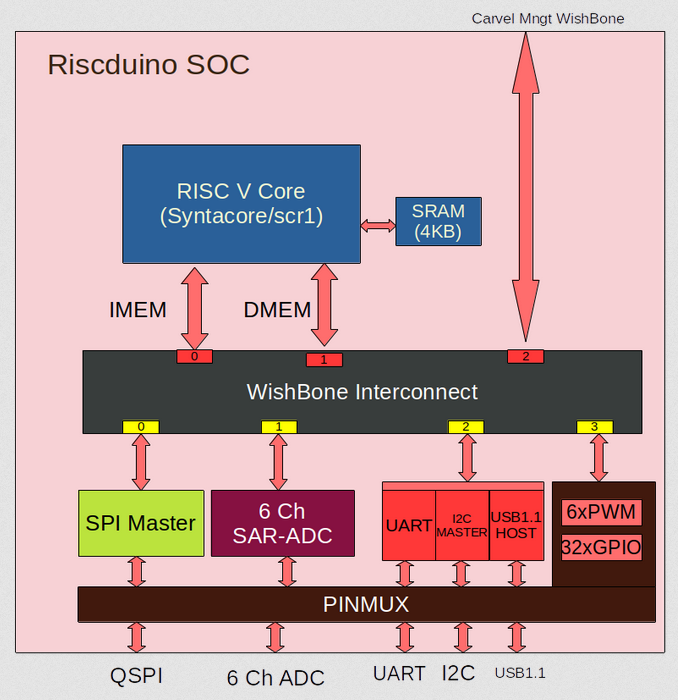
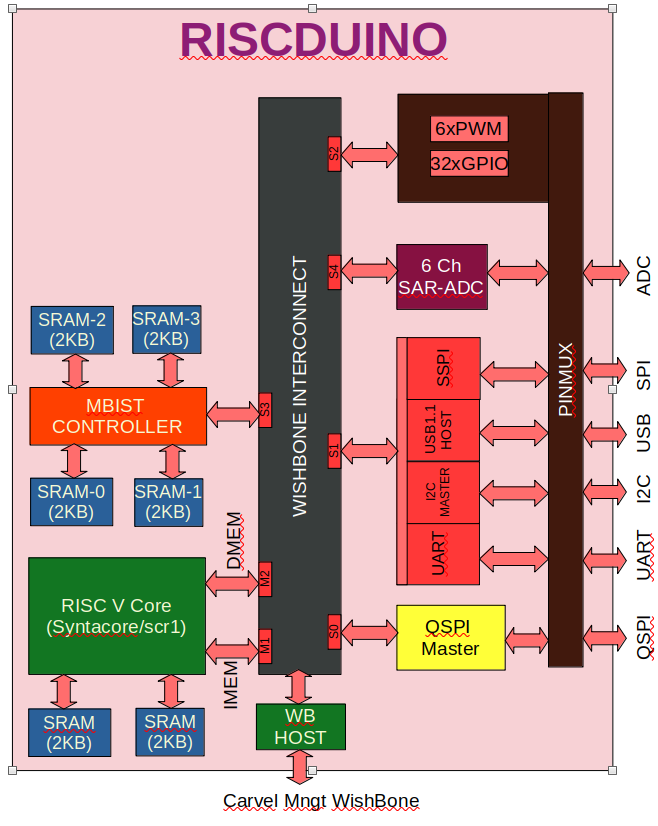
block diagram and doc update

diff --git a/README.md b/README.md
@@ -49,13 +49,16 @@ Riscduino is a 32 bit RISC V based SOC design pin compatible to arudino platform
     * Open sourced under Apache-2.0 License (see LICENSE file) - unrestricted commercial use allowed.
     * industry-grade and silicon-proven Open-Source RISC-V core from syntacore 
     * 4KB SRAM for data memory
-    * Pin Compatbible to arudino uno
+    * 8KB SRAM for program memory
     * Quad SPI Master
     * UART with 16Byte FIFO
     * USB 1.1 Host
     * I2C Master
-    * 6 Channel ADC
+    * Simple SPI Master
+    * MBIST controller for 8KB Program memory
+    * 6 Channel ADC (in Progress)
     * 6 PWM
+    * Pin Compatbible to arudino uno
     * Wishbone compatible design
     * Written in System Verilog
     * Open-source tool set
@@ -164,13 +167,13 @@ It is industry-grade and silicon-proven IP. Git link: https://github.com/syntaco
     <td  align="center"> 0x0000_0000 to 0x0FFF_FFFF  </td> 
     <td  align="center"> 0x0000_0000 to 0x0FFF_FFFF  </td>
     <td  align="center"> 0x0000_0000 to 0x0FFF_FFFF</td>
-    <td  align="center"> SPI FLASH MEMORY</td>
+    <td  align="center"> QSPI FLASH MEMORY</td>
   </tr>
   <tr>
     <td  align="center"> 0x1000_0000 to 0x1000_00FF</td> 
     <td  align="center"> 0x1000_0000 to 0x1000_00FF</td>
     <td  align="center"> 0x1000_0000 to 0x1000_00FF</td>
-    <td  align="center"> SPI Config Reg</td>
+    <td  align="center"> QSPI Config Reg</td>
   </tr>
   <tr>
     <td  align="center"> 0x1001_0000 to 0x1001_003F</td> 
@@ -185,10 +188,16 @@ It is industry-grade and silicon-proven IP. Git link: https://github.com/syntaco
     <td  align="center"> I2C</td>
   </tr>
   <tr>
-    <td  align="center"> 0x1001_0080 to 0x1001_00FF</td> 
-    <td  align="center"> 0x1001_0080 to 0x1001_00FF</td>
-    <td  align="center"> 0x1001_0080 to 0x1001_00FF</td>
+    <td  align="center"> 0x1001_0080 to 0x1001_00BF</td> 
+    <td  align="center"> 0x1001_0080 to 0x1001_00BF</td>
+    <td  align="center"> 0x1001_0080 to 0x1001_00BF</td>
     <td  align="center"> USB</td>
+  </tr>
+  <tr>
+    <td  align="center"> 0x1001_00C0 to 0x1001_00FF</td> 
+    <td  align="center"> 0x1001_00C0 to 0x1001_00FF</td>
+    <td  align="center"> 0x1001_00C0 to 0x1001_00FF</td>
+    <td  align="center"> SSPI</td>
   </tr>
   <tr>
     <td  align="center"> 0x1002_0080 to 0x1002_00FF</td> 
@@ -197,10 +206,28 @@ It is industry-grade and silicon-proven IP. Git link: https://github.com/syntaco
     <td  align="center"> PINMUX</td>
   </tr>
   <tr>
-    <td  align="center"> 0x1003_0080 to 0x1003_00FF</td> 
-    <td  align="center"> 0x1003_0080 to 0x1003_00FF</td>
-    <td  align="center"> 0x1003_0080 to 0x1003_00FF</td>
-    <td  align="center"> PINMUX</td>
+    <td  align="center"> 0x1003_0080 to 0x1003_07FF</td> 
+    <td  align="center"> 0x1003_0080 to 0x1003_07FF</td>
+    <td  align="center"> 0x1003_0080 to 0x1003_07FF</td>
+    <td  align="center"> SRAM-0 (2KB)</td>
+  </tr>
+  <tr>
+    <td  align="center"> 0x1003_0800 to 0x1003_0FFF</td> 
+    <td  align="center"> 0x1003_0800 to 0x1003_0FFF</td>
+    <td  align="center"> 0x1003_0800 to 0x1003_0FFF</td>
+    <td  align="center"> SRAM-1 (2KB)</td>
+  </tr>
+  <tr>
+    <td  align="center"> 0x1003_1000 to 0x1003_17FF</td> 
+    <td  align="center"> 0x1003_1000 to 0x1003_17FF</td>
+    <td  align="center"> 0x1003_1000 to 0x1003_17FF</td>
+    <td  align="center"> SRAM-2 (2KB)</td>
+  </tr>
+  <tr>
+    <td  align="center"> 0x1003_1800 to 0x1003_1FFF</td> 
+    <td  align="center"> 0x1003_1800 to 0x1003_1FFF</td>
+    <td  align="center"> 0x1003_1800 to 0x1003_1FFF</td>
+    <td  align="center"> SRAM-3 (2KB)</td>
   </tr>
   <tr>
     <td  align="center"> -</td> 
@@ -212,17 +239,18 @@ It is industry-grade and silicon-proven IP. Git link: https://github.com/syntaco
 
 # SOC Size
 
-| Block         | Total Cell | Seq      | Combo   |
-| ------        | ---------  | -------- | -----   |
-| RISC          | 26919      | 3164     | 23755   |
-| PINMUX        | 5461       | 1022     |  4439   |
-| SPI           | 7597       | 1279     |  6318   |
-| UART_I2C_USB  | 12423      | 2230     | 10193   |
-| WB_HOST       | 3072       | 515      | 2557    |
-| WB_INTC       | 1356       | 108      | 1248    |
-| SAR_ADC       | 128        |  18      |  110    |
-|               |            |          |         |
-| TOTAL         | 56956      | 8336     | 44620   |
+| Block             | Total Cell | Seq      | Combo   |
+| ------            | ---------  | -------- | -----   |
+| RISC              | 20982      | 3164     | 17818   |
+| PINMUX            | 5693       | 1022     |  4671   |
+| SPI               | 7120       | 1281     |  5839   |
+| UART_I2C_USB_SPI  | 11196      | 2448     |  8748   |
+| WB_HOST           | 2796       | 588      |  2208   |
+| WB_INTC           | 1878       | 108      |  1770   |
+| SAR_ADC           | 118        |  18      |   100   |
+| MBIST             | 3125       | 543      |  2582   |
+|                   |            |          |         |
+| TOTAL             | 52908      | 9172     | 43736   |
 
 
 
@@ -417,16 +445,7 @@ It is industry-grade and silicon-proven IP. Git link: https://github.com/syntaco
 |   |     |     |    |   ├─ core                           | Core top source files
 |   |     |     |    |   ├─ top                            | Cluster source files
 |   |     |     |    |─  **synth**                         | **SCR1 RTL Synthesis files **
-|   |     |- sdram_ctrl
-|   |     |     |- **src**
-|   |     |     |   |- **docs**                            | **SDRAM Controller Documentation**
-|   |     |     |   |     |- sdram_controller_specs.pdf    | SDRAM Controller Design Specification
-|   |     |     |   |             
-|   |     |     |   |- core                                | SDRAM Core integration source files                          
-|   |     |     |   |- defs                                | SDRAM Core defines
-|   |     |     |   |- top                                 | SDRAM Top integration source files
-|   |     |     |   |- wb2sdrc                             | SDRAM Wishbone source files
-|   |     |- spi_master
+|   |     |- Qspi_master
 |   |     |     |- src                                     | Qard SPI Master Source files
 |   |     |-wb_interconnect
 |   |     |     |- src                                     | 3x4 Wishbone Interconnect
@@ -493,9 +512,13 @@ It is industry-grade and silicon-proven IP. Git link: https://github.com/syntaco
 
 The simulation package includes the following tests:
 
-* **risc_boot**      - Simple User Risc core boot 
-* **wb_port**        - User Wishbone validation
-* **user_risc_boot** - Standalone User Risc core boot
+* **risc_boot**           - Simple User Risc core boot 
+* **wb_port**             - User Wishbone validation
+* **user_risc_boot**      - Standalone User Risc core boot
+* **user_mbist_test1**    - Standalone MBIST test
+* **user_spi**            - Standalone SPI test
+* **user_i2c**            - Standalone I2C test
+* **user_risc_soft_boot** - Standalone Risc with SRAM as Boot
 
 
 # Running Simulation
@@ -545,8 +568,6 @@ Riscduino Soc flow uses Openlane tool sets.
     2. `Klayout` - Performs DRC Checks
     3. `Netgen` - Performs LVS Checks
     4. `CVC` - Performs Circuit Validity Checks
-
-
 
 
 
